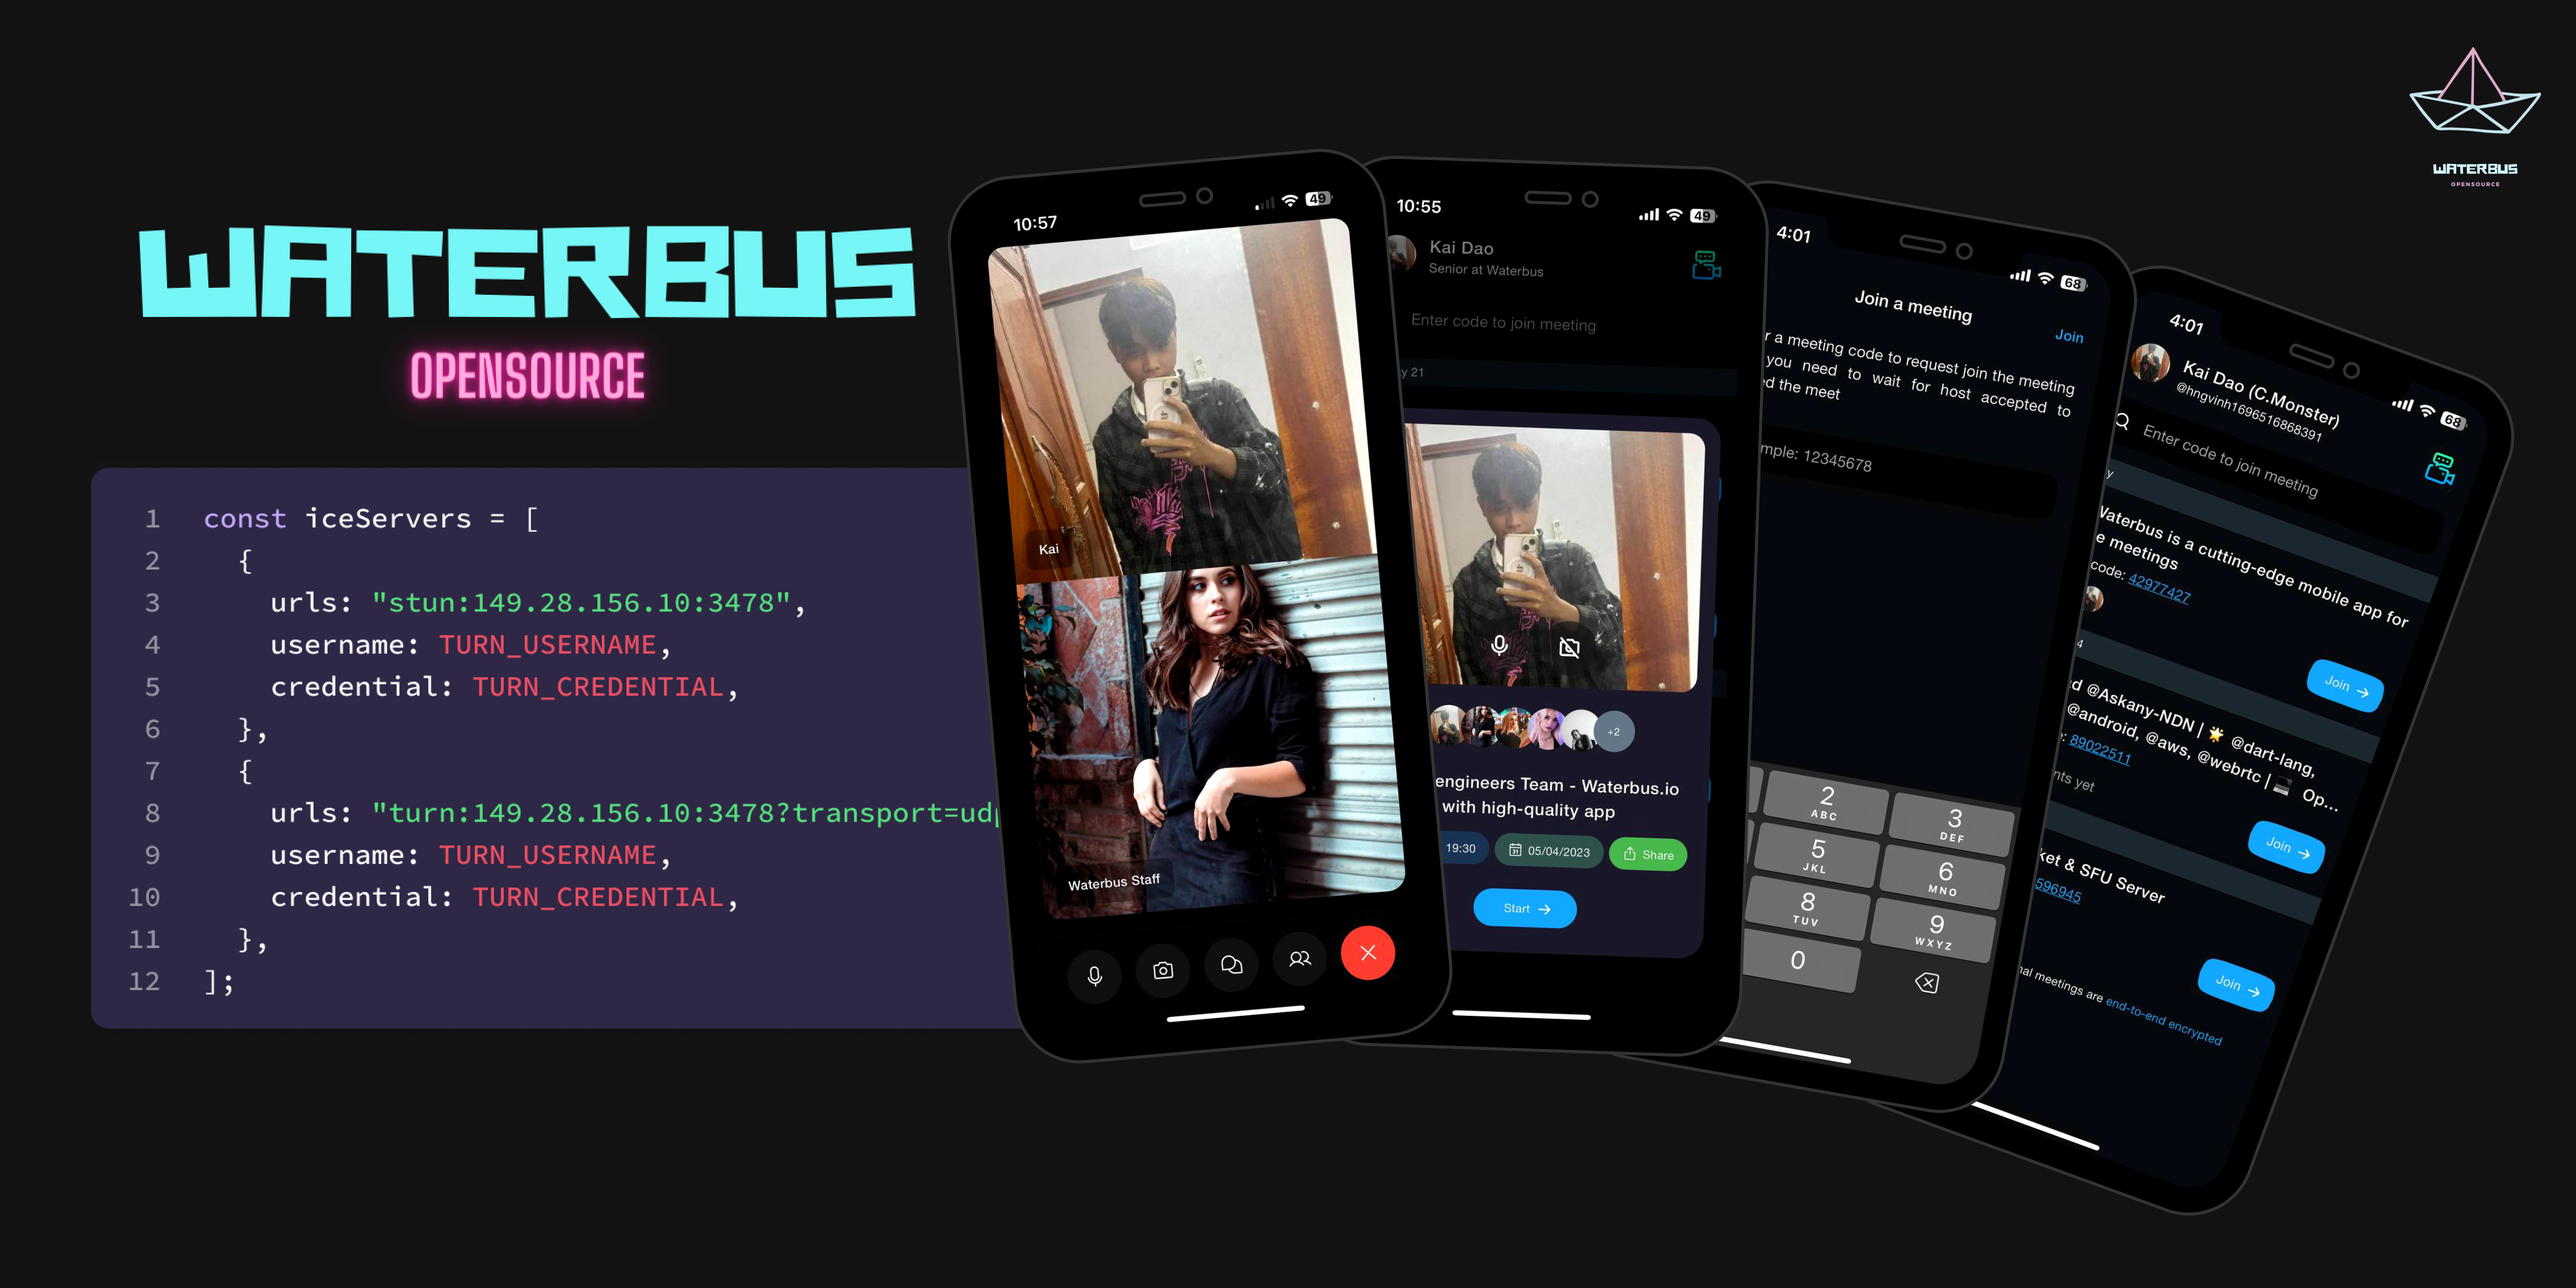
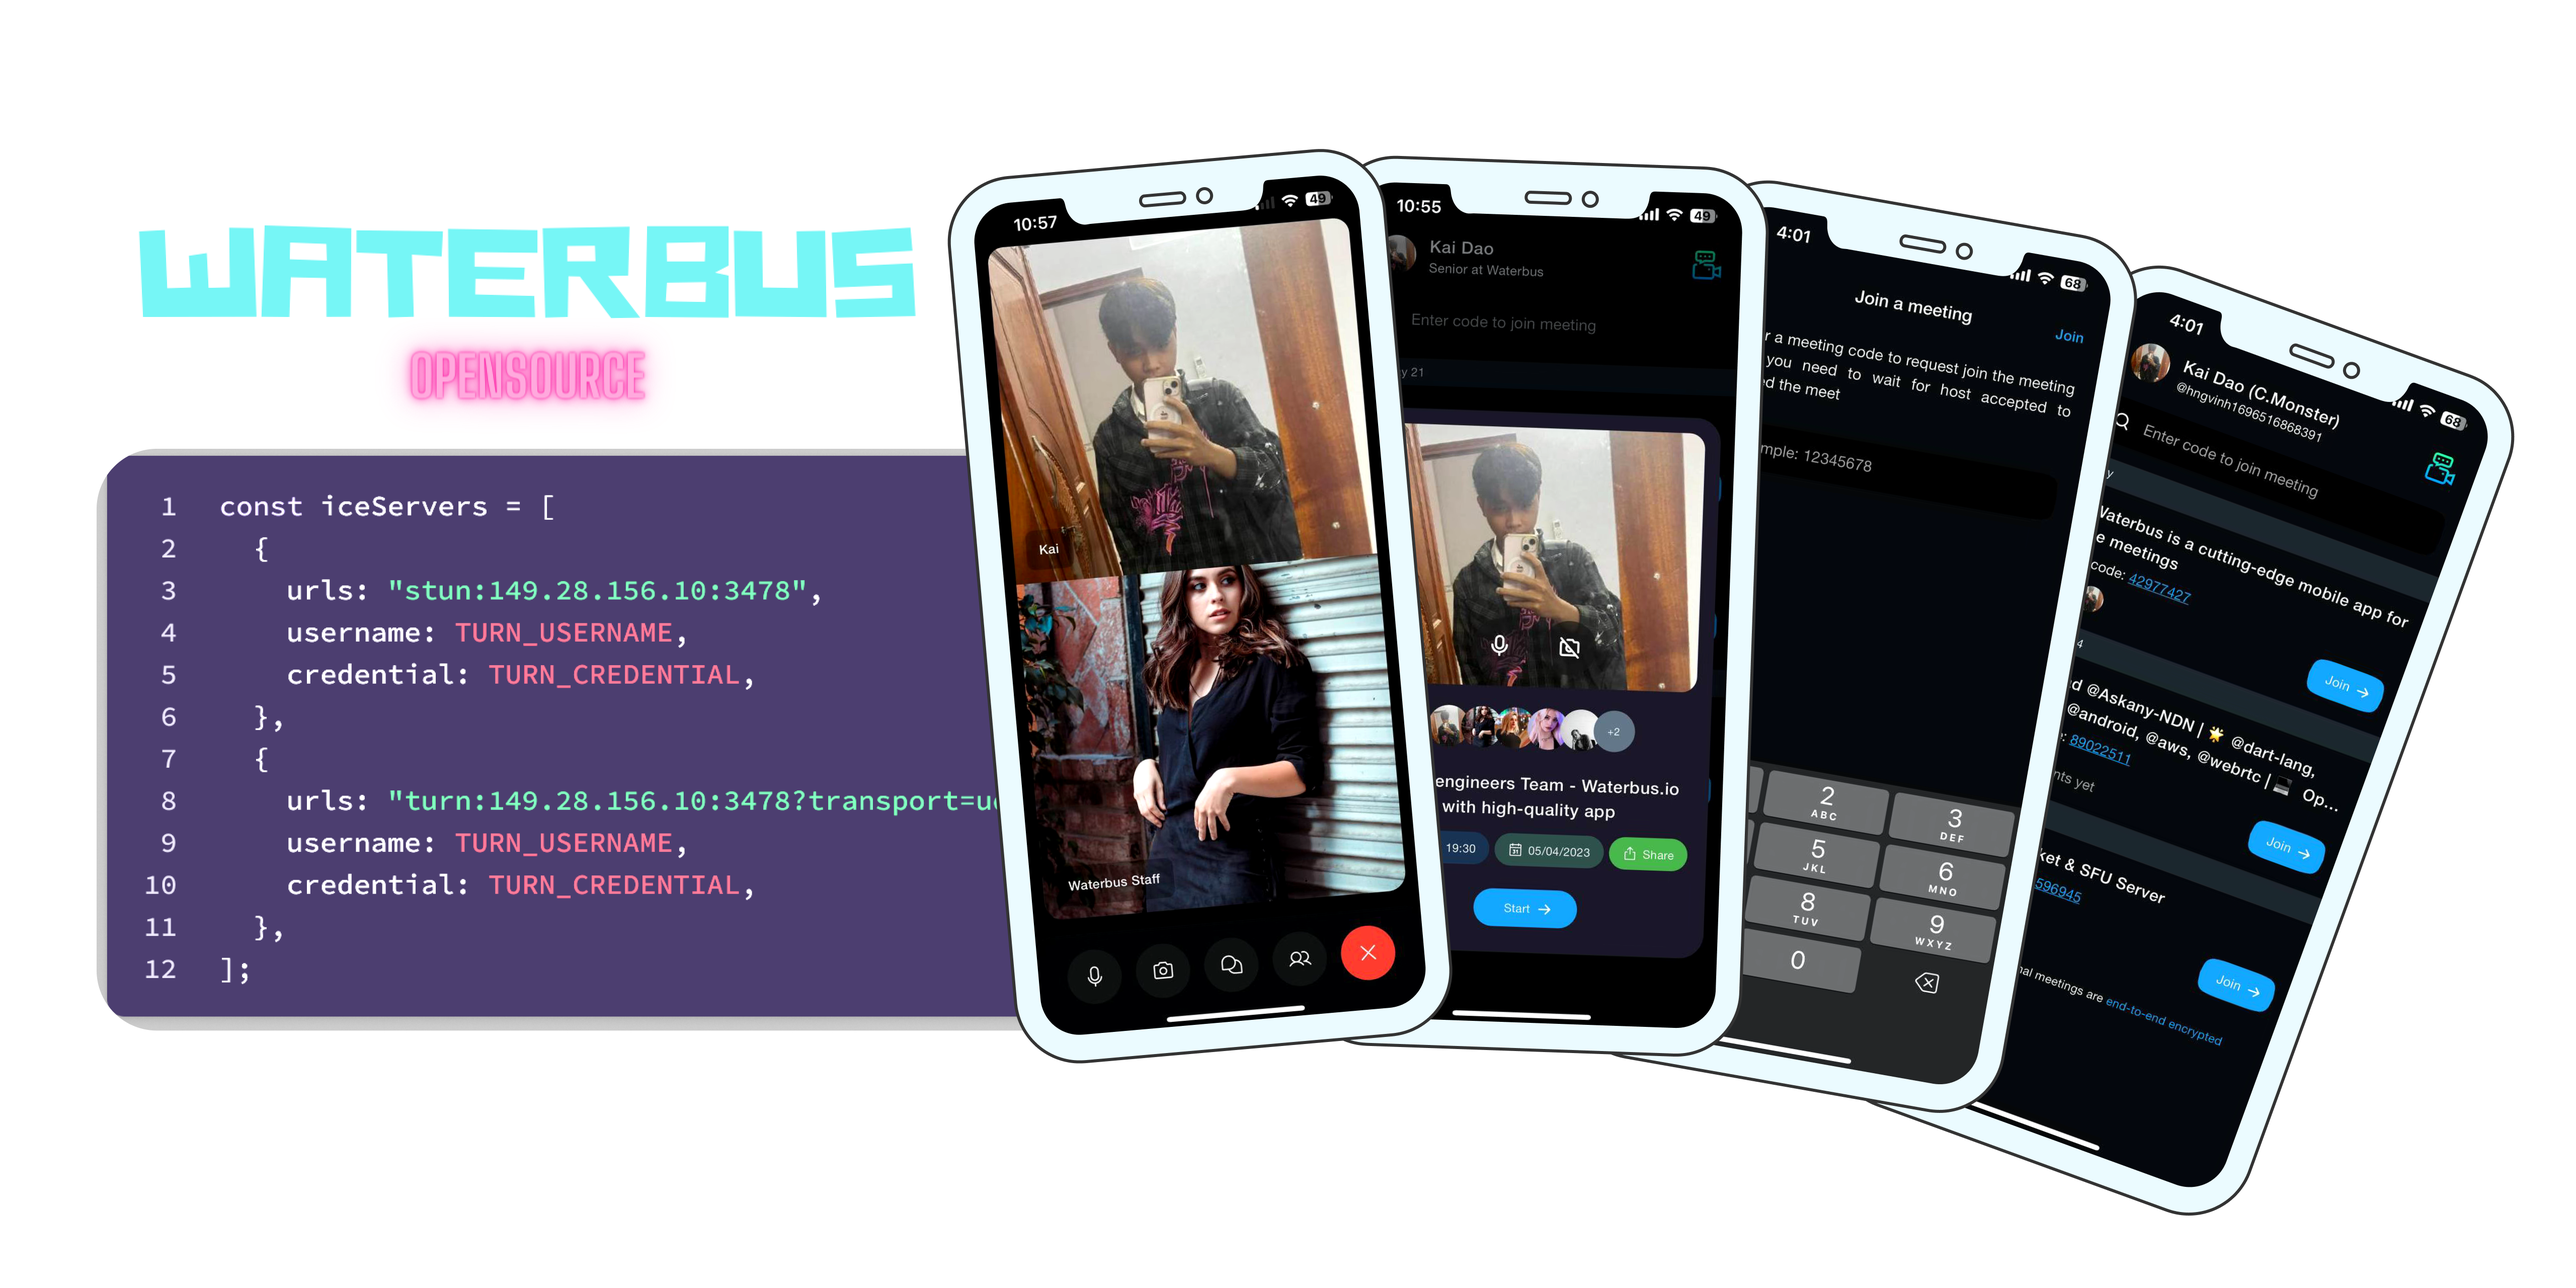
fix(codec): crash when using h265

diff --git a/lib/core/utils/dio/dio_configuration.dart b/lib/core/utils/dio/dio_configuration.dart
@@ -2,14 +2,10 @@
 import 'dart:async';
 
 // Package imports:
-import 'package:cookie_jar/cookie_jar.dart';
 import 'package:dio/dio.dart';
 import 'package:dio_cache_interceptor/dio_cache_interceptor.dart';
-import 'package:dio_cookie_manager/dio_cookie_manager.dart';
-import 'package:dio_http2_adapter/dio_http2_adapter.dart';
 import 'package:dio_smart_retry/dio_smart_retry.dart';
 import 'package:injectable/injectable.dart';
-import 'package:native_dio_adapter/native_dio_adapter.dart';
 
 // Project imports:
 import 'package:waterbus/core/constants/api_endpoints.dart';
@@ -17,7 +13,6 @@ import 'package:waterbus/core/types/extensions/duration_x.dart';
 import 'package:waterbus/core/types/http_status_code.dart';
 import 'package:waterbus/core/utils/datasources/base_remote_data.dart';
 import 'package:waterbus/core/utils/dio/completer_queue.dart';
-import 'package:waterbus/core/utils/path_helper.dart';
 import 'package:waterbus/features/app/bloc/bloc.dart';
 import 'package:waterbus/features/auth/data/datasources/auth_local_datasource.dart';
 import 'package:waterbus/features/auth/presentation/bloc/auth_bloc.dart';
@@ -35,19 +30,6 @@ class DioConfiguration {
 
   // MARK: public methods
   Future<Dio> configuration(Dio dioClient) async {
-    // Integration cookie
-    final String tempDir = await PathHelper.tempDirWaterbus;
-    final PersistCookieJar cookieJar = PersistCookieJar(
-      ignoreExpires: true,
-      storage: FileStorage("$tempDir/.cookies/"),
-    );
-    dioClient.interceptors.add(CookieManager(cookieJar));
-    dioClient.httpClientAdapter = Http2Adapter(
-      ConnectionManager(
-        idleTimeout: 10.seconds,
-      ),
-    );
-
     final MemCacheStore cacheStore = MemCacheStore(
       maxSize: 10485760,
       maxEntrySize: 1048576,
@@ -130,8 +112,6 @@ class DioConfiguration {
         onError: (error, handler) async {},
       ),
     );
-
-    dioClient.httpClientAdapter = NativeAdapter();
 
     return dioClient;
   }

diff --git a/README.md b/README.md
@@ -1,9 +1,10 @@
-[![codecov](https://codecov.io/gh/lambiengcode/waterbus/branch/main/graph/badge.svg?token=7KEMH26LHZ)](https://codecov.io/gh/lambiengcode/waterbus)[![libwebrtc](https://img.shields.io/badge/libwebrtc-120.6099.03-yellow.svg)](https://chromium.googlesource.com/external/webrtc/+/branch-heads/6099)![Cocoapods Version](https://img.shields.io/cocoapods/v/KaiRTC)
+[![codecov](https://codecov.io/gh/lambiengcode/waterbus/branch/main/graph/badge.svg?token=7KEMH26LHZ)](https://codecov.io/gh/lambiengcode/waterbus)[![libwebrtc](https://img.shields.io/badge/libwebrtc-120.6099.15-yellow.svg)](https://chromium.googlesource.com/external/webrtc/+/branch-heads/6099)![Cocoapods Version](https://img.shields.io/cocoapods/v/KaiRTC)
 [![Twitter Follow](https://img.shields.io/twitter/follow/waterbus.tech?style=social)](https://twitter.com/lambiengcode)[![PRs Welcome](https://img.shields.io/badge/PRs-welcome-brightgreen.svg?style=flat&logo=github)](https://github.com/lambiengcode)
 
-<img src="./screenshots/banner.png" width="100%"/>
+[![Banner](./screenshots/banner-dark.png)](https://docs.waterbus.tech#gh-dark-mode-only)
+[![Banner](./screenshots/banner.png)](https://docs.waterbus.tech#gh-light-mode-only)
 
-<img src="./screenshots/waterbus-demo.gif" width="100%"/>
+<!-- <img src="./screenshots/waterbus-demo.gif" width="100%"/> -->
 
 # [Waterbus](https://docs.waterbus.tech): Online Meeting App using Flutter and WebRTC SFU (Selective Forwarding Unit)
 
@@ -23,14 +24,15 @@ The Waterbus concept has been used for physical transportation, but it can also 
 | Android |        🟢         |       🟢       |         🟡         |         🟡         |          🟢           |      🟡      |
 
 ## Codec supported
-| Codec | VP8 | VP9 | H264 | H265  ![Beta](https://img.shields.io/badge/beta-green) | AV1 |
+| Codec | VP8 | VP9 | H264 | H265 | AV1 |
 | :-----: | :---------------: | :------------: | :------------: | :----------------: | :--------------------------------: |
 |   iOS   |        🟢         |       🟢       |       🟢       |         🟢         |         🟢         |
 | Android |        🟢         |       🟢       |       🟢       |         🟢         |         🟢         |
 
 ### Notes:
 - `AV1` supported on iOS 14 and above, Android 14 and above.
-- [Video Codec Android Supported](https://developer.android.com/guide/topics/media/platform/supported-formats#video-codecs)
+- `E2EE` only supported `H264`, `VP8` and `VP9`
+- Video codec Android supported: Check at [Google Site](https://developer.android.com/guide/topics/media/platform/supported-formats#video-codecs)
 
 🟢 = Available
 
@@ -40,7 +42,8 @@ The Waterbus concept has been used for physical transportation, but it can also 
 
 ## Online Meeting Diagram
 
-<img src="./screenshots/waterbus-diagram.png" width="100%"/>
+[![Diagram](./screenshots/waterbus-diagram-dark.png)](https://docs.waterbus.tech#gh-dark-mode-only)
+[![Diagram](./screenshots/waterbus-diagram.png)](https://docs.waterbus.tech#gh-light-mode-only)
 
 ## 📂 Repository Structure
 
@@ -209,9 +212,13 @@ flutter test
 - [WebRTC SFU Server](https://github.com/waterbustech/waterbus-sfu-meeting)
 - [Waterbus Docs](https://docs.waterbus.tech)
 
-## Benchmark (iOS - 720p - AV1 codec)
+## Benchmark [Update Later]()
 
-<img src="./screenshots/benchmark_plot.png" width="100%"/>
+<!-- <img src="./screenshots/benchmark_plot.png" width="100%"/> -->
+
+## Roadmap
+
+- Check at [Roadmap](./roadmap.md)
 
 ## Support
 
@@ -221,7 +228,8 @@ Don't forget to leave a star ⭐.
 
 ## Star History
 
-[![Star History Chart](https://api.star-history.com/svg?repos=lambiengcode/waterbus&type=Date)](https://star-history.com/#lambiengcode/waterbus&Date)
+[![Star History Chart](https://api.star-history.com/svg?repos=lambiengcode/waterbus&type=Date&theme=dark)](https://star-history.com/#lambiengcode/waterbus&Date#gh-dark-mode-only)
+[![Star History Chart](https://api.star-history.com/svg?repos=lambiengcode/waterbus&type=Date)](https://star-history.com/#lambiengcode/waterbus&Date#gh-light-mode-only)
 
 ## Contributing
 

diff --git a/roadmap.md b/roadmap.md
@@ -1,0 +1,39 @@
+### Release 1.0
+
+- [x] Meeting
+  - [x] Create Meeting
+  - [x] Edit Meeting
+  - [x] Find Meeting
+  - [x] Join Meeting
+  - [x] Leave Meeting
+- [x] Video/Audio Call
+- [x] Call Settings
+  - [x] Video Layout
+  - [x] Audio Quality
+  - [x] Video Quality
+  - [x] Prefered Codec
+    - [x] VP8
+    - [x] VP9
+    - [x] H264
+    - [x] H265
+    - [x] AV1
+
+### Release 1.1
+
+- [x] End-to-end encryption
+  - [x] Video
+  - [x] Audio
+- [x] Screen Sharing
+
+### Release 1.2
+
+- [ ] Edit Background (Android)
+  - [ ] Virtual Background
+  - [ ] Blur Background
+- [ ] Picture in picture
+
+### Release 1.3
+
+- [ ] Record
+- [ ] Discussion (Chat)
+- [ ] Deeplink
